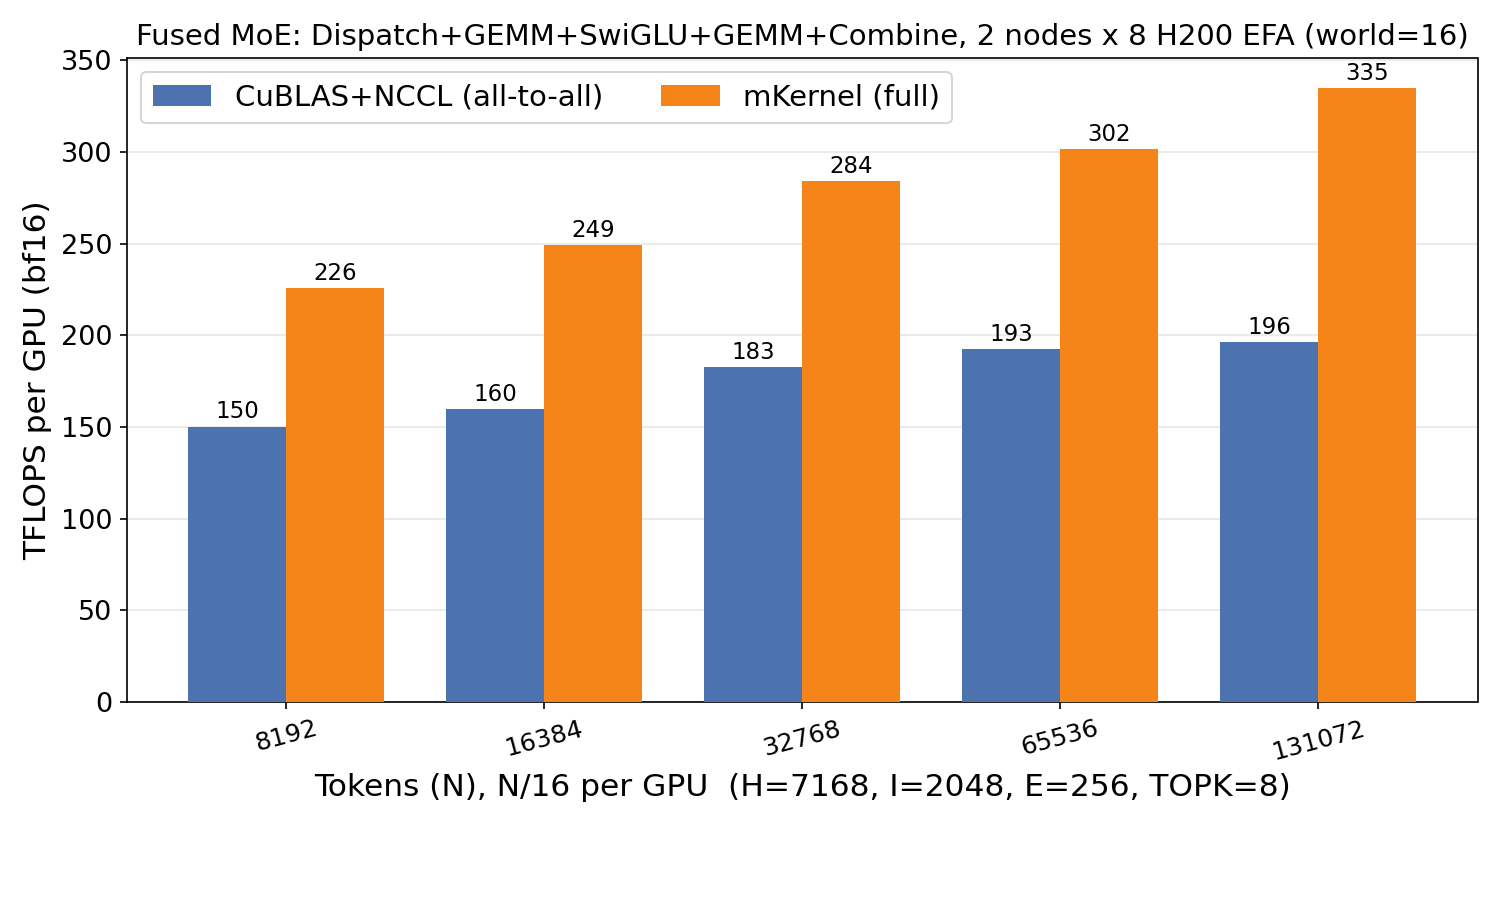
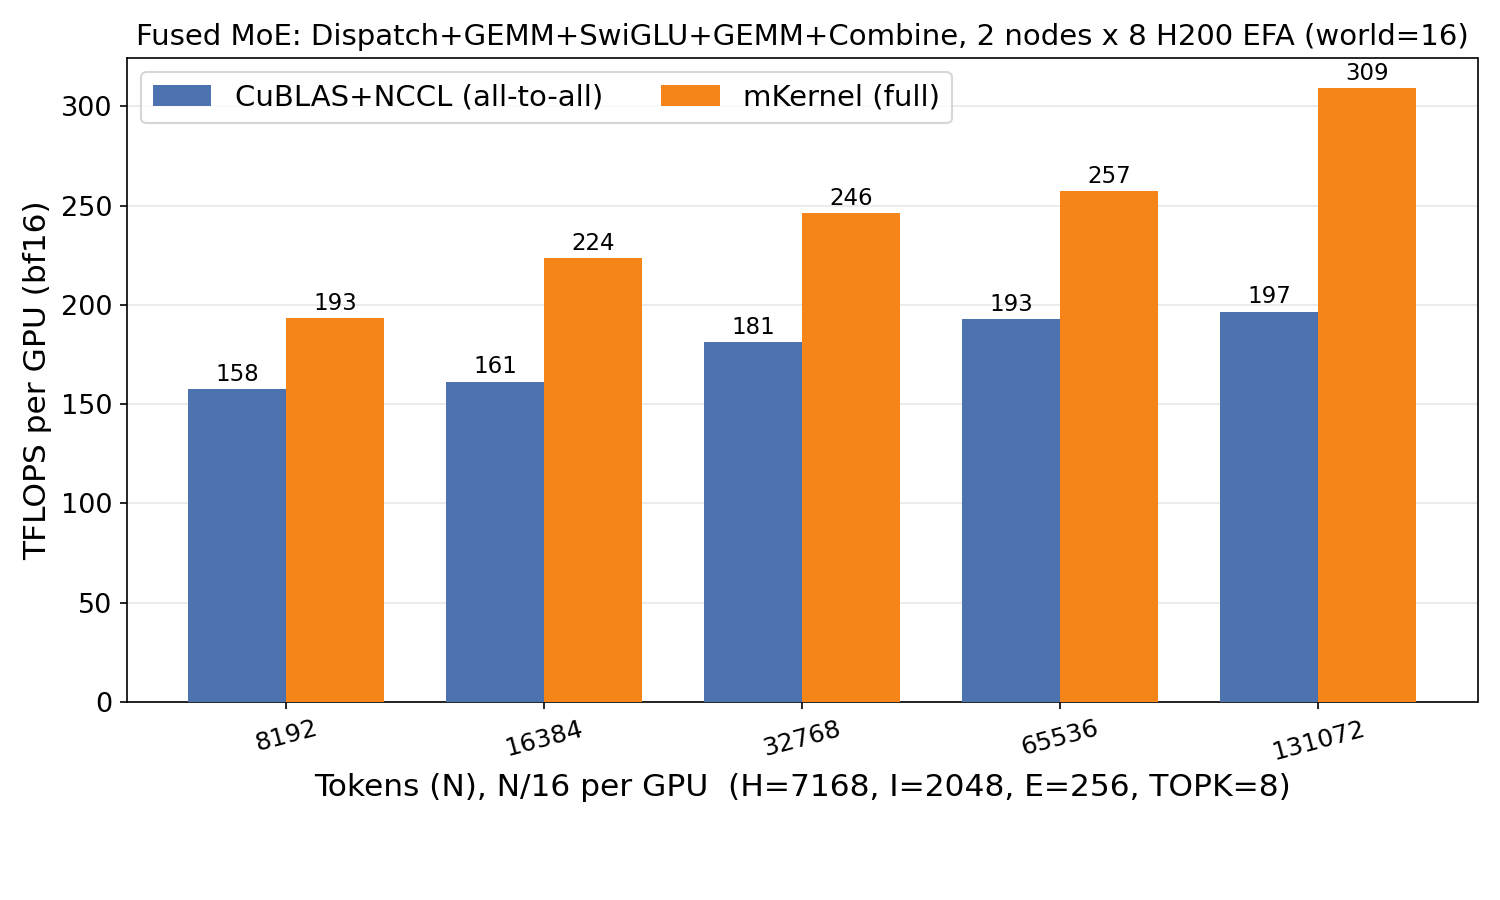
[MoE] dispatch_gemm_glu_combine: fuse SwiGLU into gemm1, grid-local combine barriers, right-sized dispatch   SMs

diff --git a/plots/plot_glu_combine_efa.py b/plots/plot_glu_combine_efa.py
@@ -26,7 +26,7 @@ H, I, TOPK, WORLD = 7168, 2048, 8, 16
 TITLE = "Fused MoE: Dispatch+GEMM+SwiGLU+GEMM+Combine, 2 nodes x 8 H200 EFA (world=16)"
 # Same-functionality baseline (NCCL all-to-all over EFA + cuBLAS), measured by
 # bench/baseline_glu_combine.py at H=7168 I=2048 TOPK=8 (TFLOPS/GPU).
-BASELINE_TF = {8192: 150.1, 16384: 159.7, 32768: 182.7, 65536: 192.6, 131072: 196.4}
+BASELINE_TF = {8192: 157.6, 16384: 161.3, 32768: 181.2, 65536: 193.0, 131072: 196.7}
 MIN_TOK = 8192   # real-dim runs only (the json also holds stale tiny-dim entries)
 
 
@@ -36,13 +36,11 @@ def tflops(num_tokens, ms):
     return (6.0 * num_tokens * TOPK * H * I / WORLD) / (ms * 1e-3) / 1e12
 
 
-# Full-kernel TFLOPS/GPU (dispatch+gemm1+swiglu+gemm2+combine). bf16x2 IPC
-# atomics + atomic-free structured reduce + CHUNK_BYTES=16 MB (the exposed,
-# bidirectional combine RDMA saturates the EFA rails at ~20 GB/s with large
-# chunks; 512 KB left it at ~7 GB/s). 2-node EFA sweep wall =
-# {8192:2.142, 16384:3.952, 32768:7.477, 65536:14.476, 131072:27.010} ms.
-# Now beats the CuBLAS+NCCL baseline at every shape.
-FULL_TF = {8192: 168.5, 16384: 182.6, 32768: 193.0, 65536: 199.4, 131072: 213.7}
+# Full-kernel TFLOPS/GPU (dispatch+gemm1+swiglu+gemm2+combine), atomic-free
+# structured combine, CHUNK_BYTES=16 MB. Best-of-2 2-node EFA sweep wall (ms) =
+# {8192:1.973, 16384:3.530, 32768:6.354, 65536:12.070, 131072:19.934}.
+# Beats the CuBLAS+NCCL baseline at every shape.
+FULL_TF = {8192: 182.9, 16384: 204.4, 32768: 227.1, 65536: 239.1, 131072: 289.6}
 # Arena: if the agent team has a recorded best, use its per-shape TFLOPS.
 try:
     _bt = json.loads((HERE.parent / "agent_arena" / "best_tflops.json").read_text())
